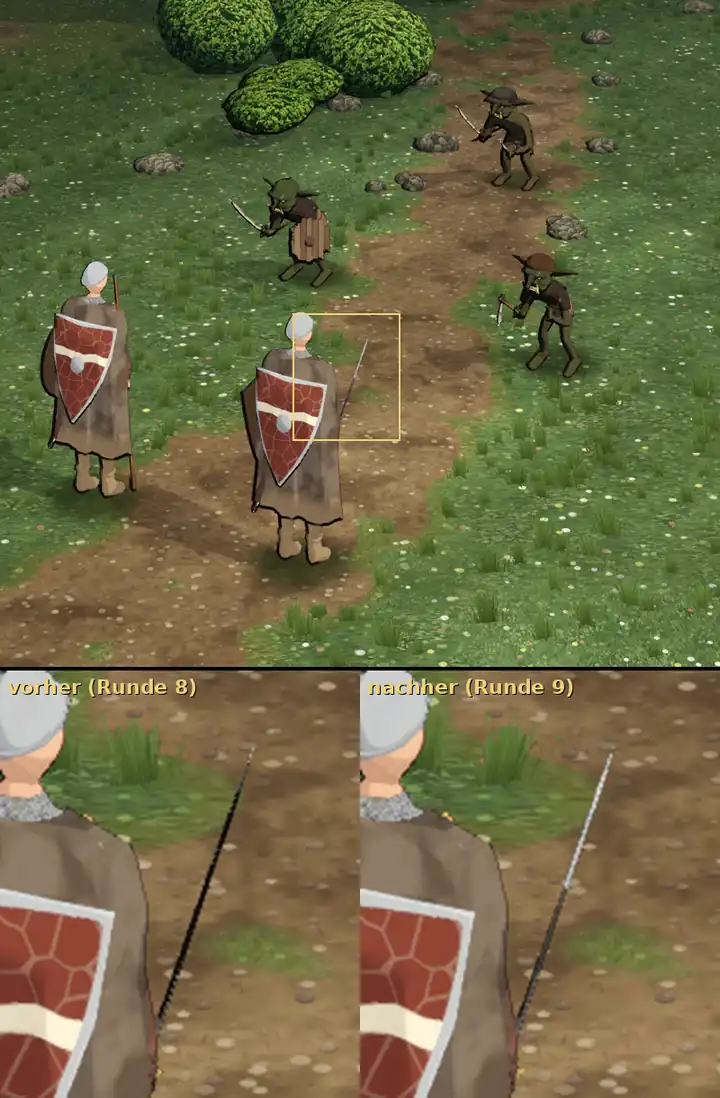
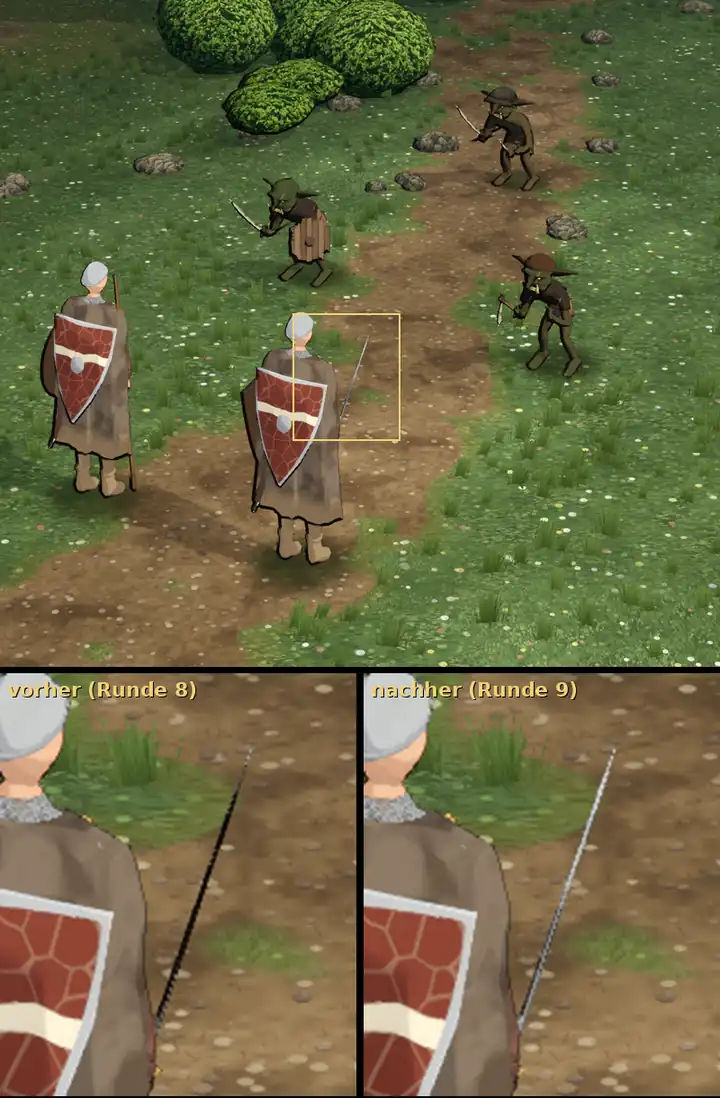
Tom: Vorlage 348.13a Runde 9 mit Hohlkehle
Claude-Session: https://claude.ai/code/session_01Hmoj79S6feFe45n6FScZvr

diff --git a/docs/chefsache/ansehen/34813a-tusche-kampf-r9.md b/docs/chefsache/ansehen/34813a-tusche-kampf-r9.md
@@ -1,19 +1,22 @@
-# 348.13a · Tusche im Kampf, Runde 9: Langschwert nicht mehr schwarz · Tom · 28.10., 00:46
+# 348.13a · Tusche im Kampf, Runde 9: Langschwert nicht mehr schwarz · Tom · 28.10., 00:59
 
 ![Oben Kampfort Waldlichtung mit Linienstärke 1,3, Sonne schräg von rechts; goldener Rahmen um das Langschwert des rechten Helden; unten dieser Ausschnitt vergrößert, links vorher (Runde 8), rechts nachher (Runde 9), gleicher Augenblick.](../bilder/34813a-tusche-r9.webp)
 
-**Ansehen (Morgenblatt):** unten rechts gegen links: die Klinge des Langschwerts zeigt auf der oberen Hälfte wieder Stahl.
+**Ansehen (Morgenblatt):** unten rechts gegen links: die Klinge des Langschwerts ist nicht mehr schwarz.
 
-**Geändert:** Teile, die am Schirm höchstens 3 Bildpunkte schmal sind (Klinge von der Schneide gesehen), bekommen keine Tuschelinie mehr; vorher deckte die Linie (2–3 Bildpunkte) die Klinge (1 Bildpunkt) ganz. Sonst gleich wie Runde 8 mit deiner Wahl 1,3.
+**Geändert, zwei Ursachen nachgestellt:**
+1. Teile, die am Schirm höchstens 3 Bildpunkte schmal sind (Klinge von der Schneide gesehen), bekommen keine Tuschelinie mehr; vorher deckte die Linie (2–3 Bildpunkte) die Klinge (1 Bildpunkt) ganz.
+2. Die Hohlkehle färbte eine ganze Klingenhälfte auf zwei Dritteln der Länge fast schwarz (auch das Kurzschwert); jetzt nur etwas dunkler als der Stahl. Untere Klinge gemessen: vorher 265–324, nachher 399–454 (obere Klinge 545–590; Summe RGB).
 
-## Befund der fremden Prüfung (00:44), offen
+Sonst gleich wie Runde 8 mit deiner Wahl 1,3.
 
-- **Untere Hälfte der Klinge weiter dunkel** (hoch): von etwa Schulterhöhe bis zum Mantelrand; das Schwert liest sich dadurch wie ein Speer mit Metallspitze, ohne Griff und Parierstange (Hand vom Mantel verdeckt). Nachgemessen: dort ist es keine Tusche mehr, sondern dunkles Material oder Schatten am Schwert; geht mit der Lage der Waffe an Jerry.
-- An der Übergangsstelle ein kurzer heller Glanzfleck und eine kleine Stufe (gering bis mittel); im dunklen Teil graue Sprenkel (gering).
-- Säbel des hinteren Goblins jetzt ein dünner heller Bogen ohne Linie (gering), vermutlich Folge derselben Änderung.
-- Hinterer Goblin hebt sich auf dem Weg schwach ab (gering; Goblins aufhellen übernimmt Jerry).
-- Helden tragen den Schild auf dem Rücken, während der rechte das Schwert zieht (mittel; Modell, nicht Tusche).
+## Befund der fremden Prüfung (00:5x), offen
 
-**Aus Runde 8 nachgestellt, nicht geändert:** „Strich von der Scheidenspitze“ ist der untere Mantelsaum (Schattenseite, 4–5 Bildpunkte wie der Außenumriss), an der Scheidenspitze treffen zwei Bänder keilförmig zusammen; Unterkante des Goblinschilds folgt den Plankenstufen; Sohle ist eine Kontaktlinie der Welttusche plus feine Heldenkante, unabhängig von 1,0 oder 1,3.
+- **Schwert liest sich als Stab oder Draht** (mittel): 1–2 Bildpunkte hell, ohne Griff, Parierstange und Hand (vom Mantel verdeckt), untere Hälfte dunkler gestreift als die obere, wie zwei Materialien; entlang der Klinge Treppe einer 1-Bildpunkt-Schräge (gering bis mittel).
+- Säbel des hinteren Goblins liest sich als Bogen (gering), vermutlich Folge von 1.
+- Linker Goblin steht im Profil quer zu den Helden (gering bis mittel); hinterer Goblin hebt sich auf dem Weg schwach ab (gering; Goblins aufhellen übernimmt Jerry).
+- Beide Helden fast gleich, Schild mittig auf dem Rücken (mittel; Modell, nicht Tusche); Scheidenende unten links am Mantel ein dunkler Stummel (gering).
 
-**Weiter:** Linienstärke 1,3, Sonne und die offenen Punkte gehen an Jerry (Licht im Kampf, Goblins).
+**Aus Runde 8 nachgestellt, nicht geändert:** „Strich von der Scheidenspitze“ ist der untere Mantelsaum (Schattenseite, 4–5 Bildpunkte wie der Außenumriss); Unterkante des Goblinschilds folgt den Plankenstufen; Sohle ist eine Kontaktlinie der Welttusche plus feine Heldenkante, unabhängig von 1,0 oder 1,3.
+
+**Weiter:** Linienstärke 1,3, Sonne und die offenen Punkte gehen an Jerry (Licht im Kampf, Goblins); Schwert im Kampf (Lage, Griff sichtbar) mit 372 Feinschliff Held.
